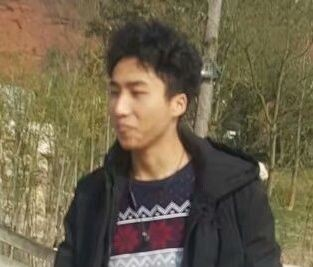
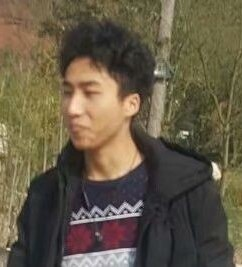
ye

diff --git a/index.html b/index.html
@@ -41,17 +41,15 @@
 											<h1>Hi, I’m Transient-Lee</h1>
 											<p>这里是通过 <a href="https://github.com/Transient-Lee/Transient-Lee.github.io.git">github</a>搭建的html网页及个人博客。会不定期的更新一些笔记、科研、生活等内容, 也会在业余时间尝试开发一些其它功能。代码详见前面的github库链接。<br />P.S.开源框架来源:<a href="https://html5up.net">HTML5 UP</a>---Editorial</p>
 										</header>
-										<p>我的名字叫李雨航, 2000年12月出生于中国一个普通家庭, 是一名物理系的学生(最开始是因为对天文和引力感兴趣转到物理系来的)。主要研究兴趣与领域: 量子光学、量子信息、智能光电信息、纳米光子学等。主要应用:人工智能, 传感器, 计算通讯等领域。我会尽力而为, 争取做出一些更有价值的成果。<br />
-										My Chinese name is Yvhang Li or 李雨航. Born in 2000, I grew up in a typical family in China. As a physics student, my main research interests are Quantum optics、Quantum information、Photoelectric information、Nanophotonics, etc. And I will try my best to make some valuable results.
+										<p><span class="image right"><img src="images/self.jpg" alt="" /></span>我的名字叫李雨航, 2000年12月出生于中国一个普通家庭, 是一名物理系的学生(最开始是因为对天文和引力感兴趣转到物理系来的)。主要研究兴趣与领域: 量子光学、量子信息、智能光电信息、纳米光子学等。主要应用:人工智能, 传感器, 计算通讯等领域。我会尽力而为, 争取做出一些更有价值的成果。<br />
+										My Chinese name is Yvhang Li or 李雨航. Born in 2000, I grew up in a typical family in China. As a physics student, my main research interests are Quantum optics、Quantum information、Photoelectric information、Nanophotonics, etc. And I will try my best to make some valuable results.									
 										</p>
 										<ul class="actions">
 											<li><a href="https://physics.scu.edu.cn/phys_wangwei/" class="button small">川大课题组网页</a></li>
 											<li><a href="http://www.iop.cas.cn/" class="button small">中科院物理研究所</a></li>
 										</ul>
 									</div>
-									<span class="image object">
-										<img src="images/pic10.jpg" alt="" />
-									</span>
+
 								</section>
 
 							<!-- Section -->
